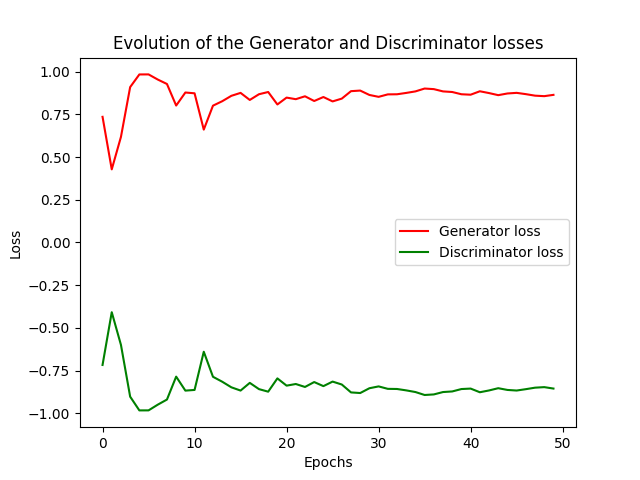
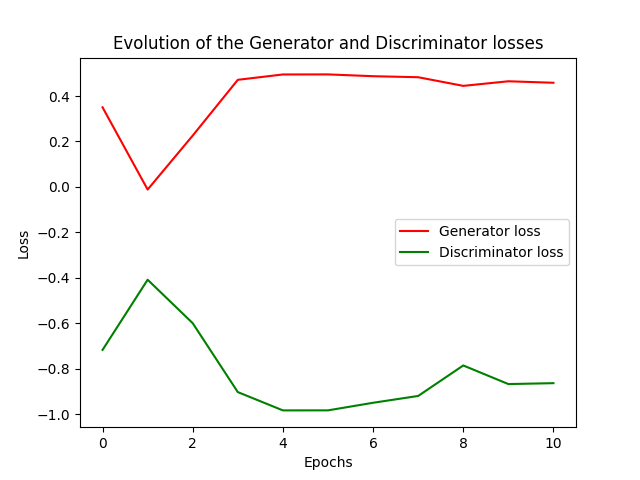
Removed layer to help convergence

diff --git a/f_gan.py b/f_gan.py
@@ -83,9 +83,9 @@ class Generator(nn.Module):
         x = [nn.Linear(z_dim, hidden_dim2),
              nn.BatchNorm1d(hidden_dim2),
              nn.ReLU(inplace=True),
-             nn.Linear(hidden_dim, hidden_dim2),
-             nn.BatchNorm1d(hidden_dim2),
-             nn.ReLU(inplace=True),
+             # nn.Linear(hidden_dim, hidden_dim2),
+             # nn.BatchNorm1d(hidden_dim2),
+             # nn.ReLU(inplace=True),
              nn.Linear(hidden_dim2, image_size[0]*image_size[1]*image_size[2])]
 
         self.x = nn.Sequential(*x)
